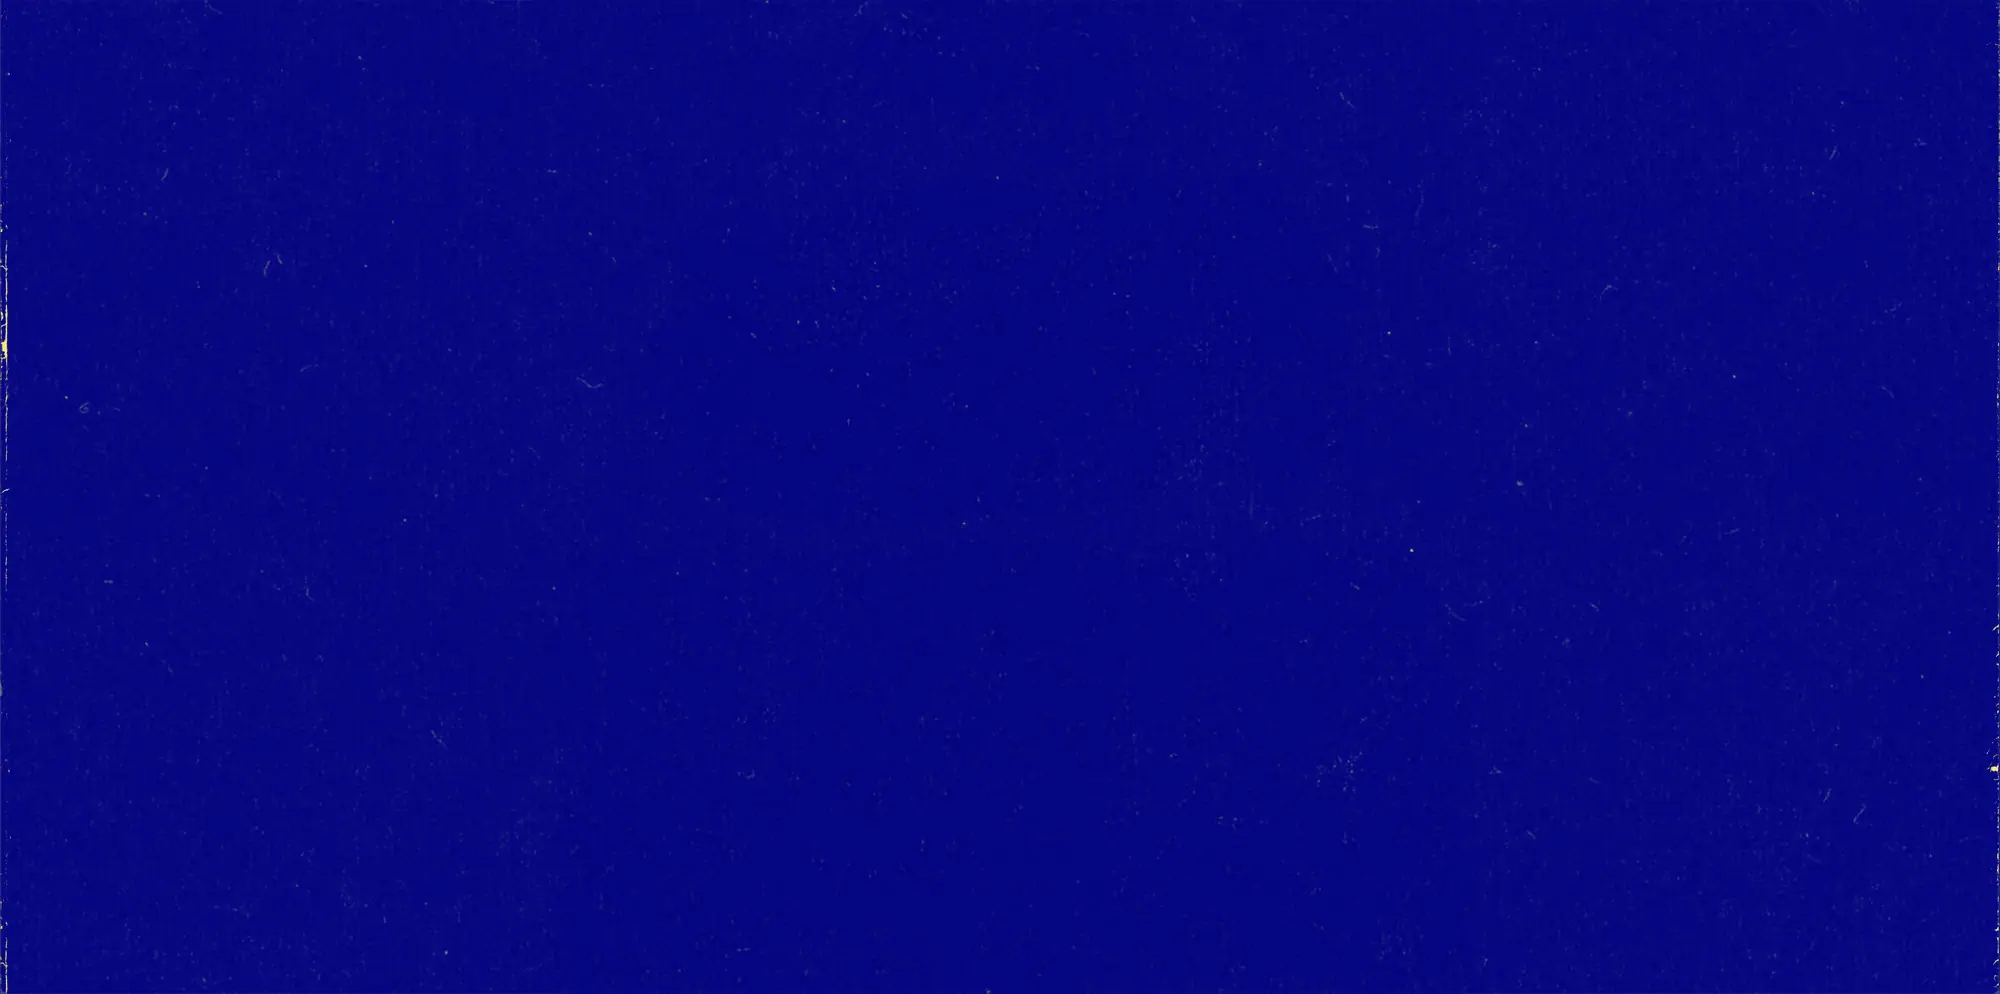
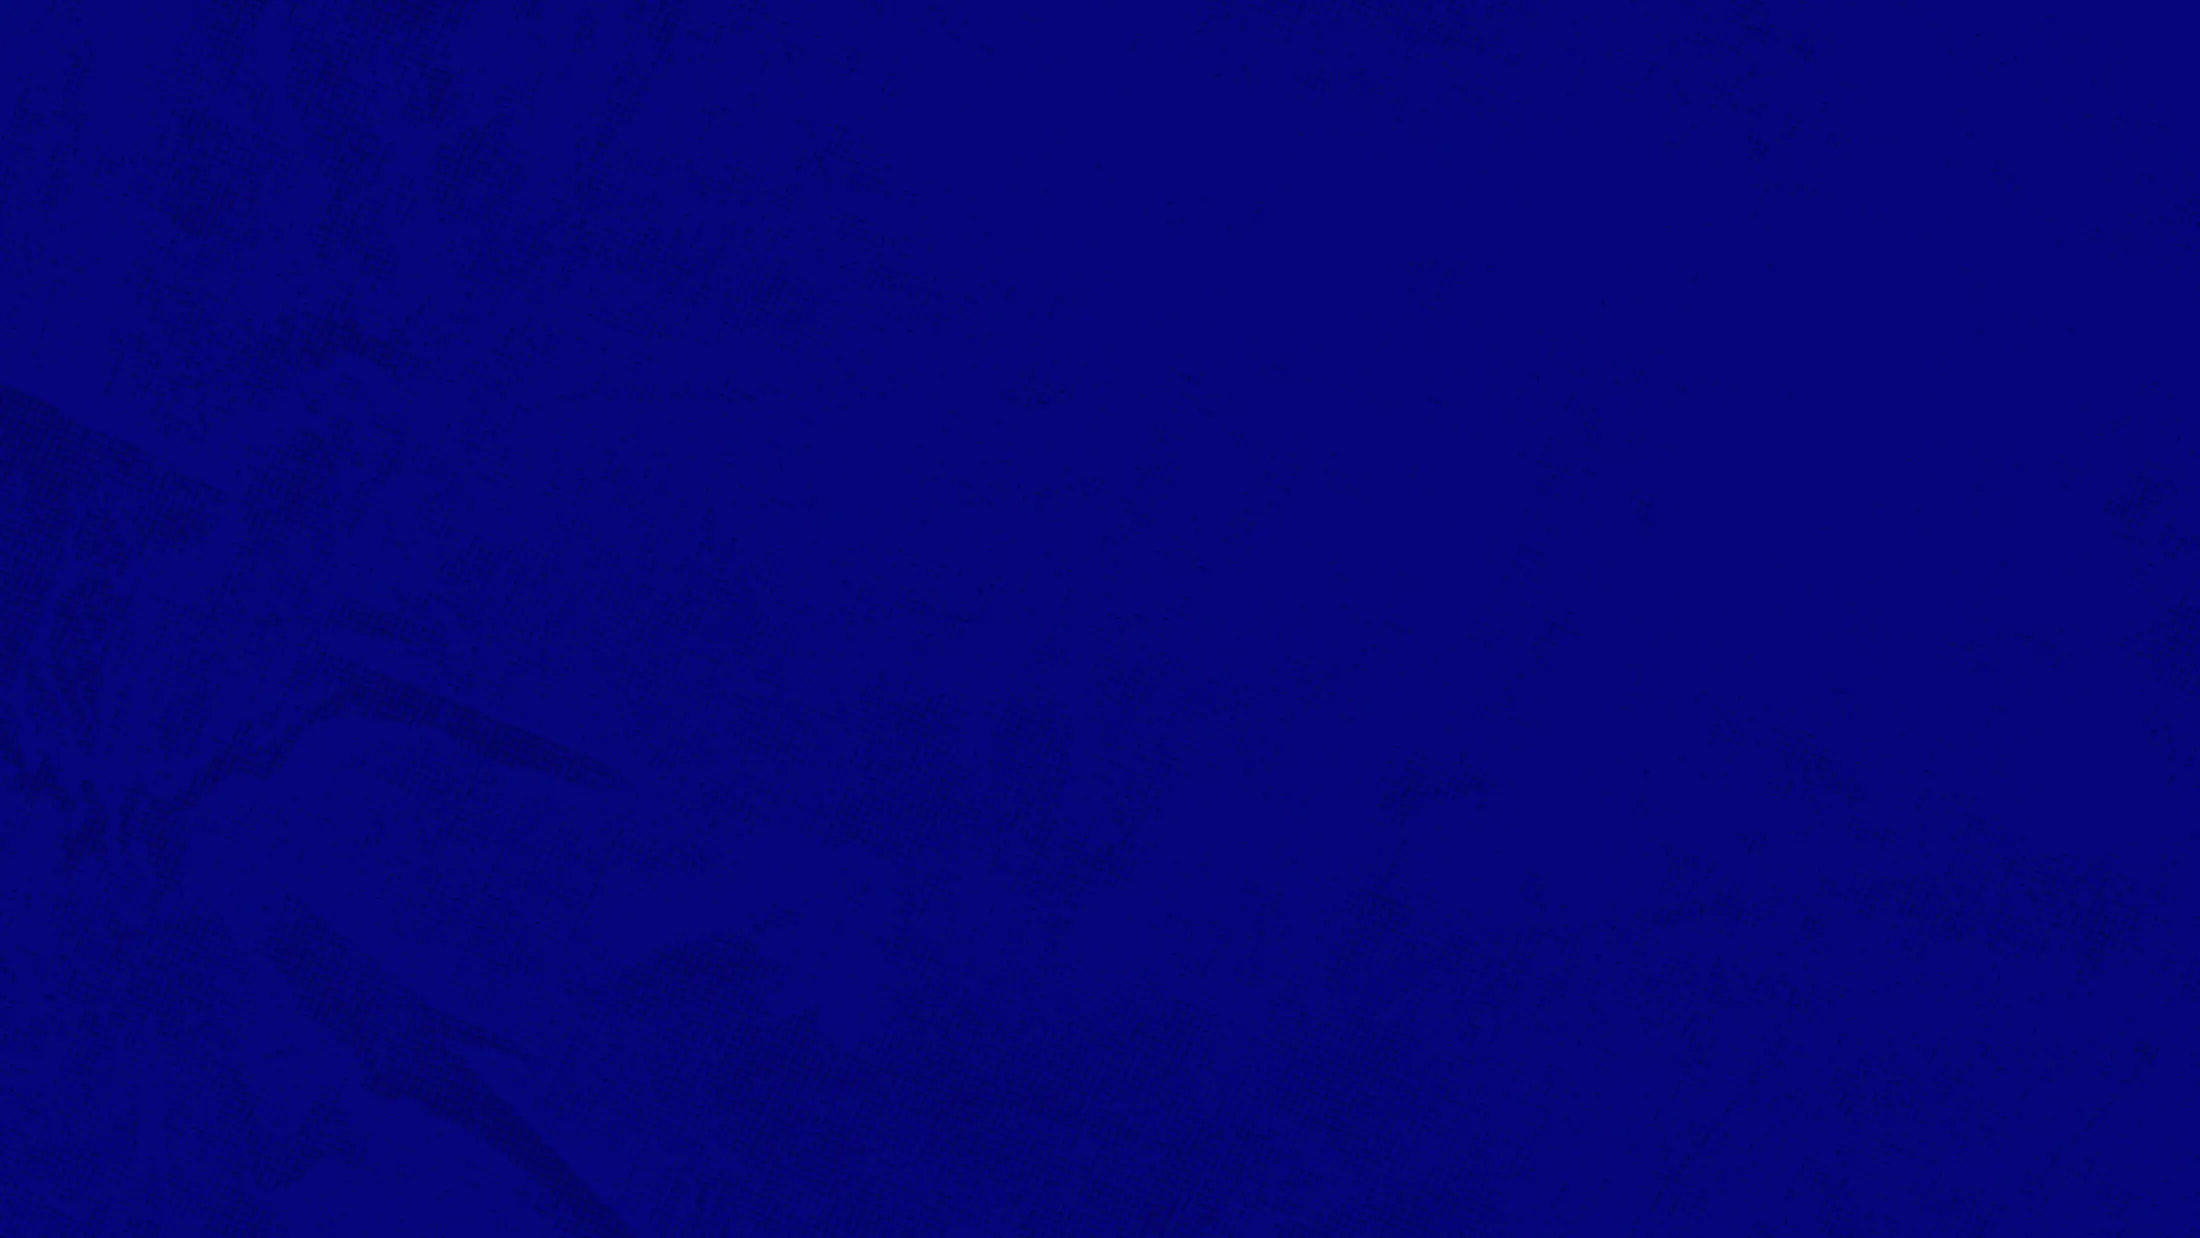
Rebuild from the client's new design file + wire real work thumbnails
New WeTransfer (open .ai + 8000px page exports + 5 brand asset folders):

- Hero: shutter is now the file's full-page garage lines export; door art
  swapped for the new export (baked chrome patched out)
- Fabric texture replaced with the file's own navy texture page
- About: new 6-line copy (drops the last paragraph), tight 2-line
  headline at the export's real leading, chandelier re-cut with its
  orange fills (overlapping the headline like the file), stairs re-cut
  at full size with floor hatching — every element now measures within
  0.3% of the export
- Work: real thumbnails wired from the delivered folders — Jameson,
  Nippon India (GOAT), Senco film still, Grameen Kulfi, Jacob's Creek
  Unvined + South Indian Bank; projects reordered to match the file
  (Johnson and Tata entries replaced)
- Crew: labels per the updated file — Maithili Sr. Executive (top),
  Utsav Art Director (Bryan's old crew spot), Tanvi Sr. Visualizer

diff --git a/artifacts/garage-website/src/lib/fallback-data.ts b/artifacts/garage-website/src/lib/fallback-data.ts
@@ -4,6 +4,7 @@ import { publicAsset } from "./public-asset";
 const ppt = publicAsset("assets/ppt/");
 const crewImg = publicAsset("crew/");
 const clientImg = publicAsset("clients/");
+const v2img = publicAsset("v2/");
 
 export const fallbackContent: GarageContent = {
   site: {
@@ -43,6 +44,46 @@ export const fallbackContent: GarageContent = {
   },
   projects: [
     {
+      id: "jameson",
+      title: "Moments Worth Sharing",
+      client: "Jameson",
+      category: "Digital & Social",
+      summary:
+        "Always-on social storytelling for Jameson Ginger Ale — from #WorldHelloDay and festive content calendars to Halloween drops and carousel series that keep the brand living in culture all year round.",
+      impact:
+        "A steady drumbeat of thumb-stopping social content built an engaged community around the brand's easy-going, social-first personality across Instagram and beyond.",
+      cover: {
+        src: `${v2img}work-jameson.webp`,
+        alt: "Jameson — Sometimes it's about the hellos after you hang up"
+      },
+      gallery: [
+        {
+          src: `${v2img}work-jameson.webp`,
+          alt: "Jameson — Sometimes it's about the hellos after you hang up"
+        }
+      ]
+    },
+    {
+      id: "nippon-india-mf",
+      title: "GOAT Campaign",
+      client: "Nippon India",
+      category: "Digital & Social",
+      summary:
+        "To build a stronger connection with younger audiences, GARAGE partnered with Nippon India Mutual Fund to launch a Gen Z-first social ecosystem — simplifying mutual funds by speaking the audience's language, both verbally and visually. From leveraging Gen Z slang to culturally relevant, thumb-stopping content, finance was made less intimidating and more relatable.",
+      impact:
+        "The GOAT campaign, Diwali Vox Pop series, and New Year \u2018Grape Theory\u2019 film drove curiosity and meaningful engagement across Instagram, Facebook, and YouTube — positioning Nippon India as the GOAT of mutual funds among India's Gen Z investors.",
+      cover: {
+        src: `${v2img}work-nippon.webp`,
+        alt: "Nippon India Mutual Fund — GOAT campaign visual"
+      },
+      gallery: [
+        {
+          src: `${v2img}work-nippon.webp`,
+          alt: "Nippon India Mutual Fund — GOAT campaign visual"
+        }
+      ]
+    },
+    {
       id: "senco-gold",
       title: "Khushiyon Ki Reet",
       client: "Senco Gold & Diamonds",
@@ -52,13 +93,53 @@ export const fallbackContent: GarageContent = {
       impact:
         "The #AapkaShukriya film — a heartfelt tribute to the karigars behind every Senco masterpiece — celebrated artisan craftsmanship and cultural heritage, driving brand love and digital engagement across the campaign.",
       cover: {
-        src: `${ppt}work-senco.webp`,
+        src: `${v2img}work-senco2.webp`,
         alt: "Senco Gold & Diamonds — Khushiyon Ki Reet campaign visual"
       },
       gallery: [
         {
-          src: `${ppt}work-senco.webp`,
+          src: `${v2img}work-senco2.webp`,
           alt: "Senco Gold & Diamonds — Khushiyon Ki Reet campaign visual"
+        }
+      ]
+    },
+    {
+      id: "grameen-kulfi",
+      title: "Jaldi Kya Hai?",
+      client: "Grameen Kulfi",
+      category: "Campaign",
+      summary:
+        "A kulfi crafted with so much care, it deserves to be savoured. This campaign positioned Grameen Kulfi as an antidote to today's fast-paced world — celebrating slow living, mindful indulgence, and the craftsmanship behind every kulfi. Flavours include Desi Malai, Kesar Pista, Alphonso Mango and more; available in stick, slice, and matka formats.",
+      impact:
+        "The wedding film and conference film carried the \u2018Jaldi Kya Hai?\u2019 platform across occasions, building brand recall around the idea of unhurried, traditional indulgence in a market dominated by fast snacking.",
+      cover: {
+        src: `${v2img}work-grameen.webp`,
+        alt: "Grameen Kulfi — Jaldi Kya Hai? campaign visual"
+      },
+      gallery: [
+        {
+          src: `${v2img}work-grameen.webp`,
+          alt: "Grameen Kulfi — Jaldi Kya Hai? campaign visual"
+        }
+      ]
+    },
+    {
+      id: "jacobs-creek",
+      title: "Unvined",
+      client: "Jacob's Creek",
+      category: "Digital & Social",
+      summary:
+        "Launching Jacob's Creek Unvined \u2014 the non-alcoholic wine range \u2014 with a social platform built around moments worth celebrating without compromise. From festive occasions to cricket contests, the content kept the brand effortlessly in the conversation.",
+      impact:
+        "The Unvined launch content and always-on social calendar drove awareness and trial for the new range, framing it as the easy pick for every celebration.",
+      cover: {
+        src: `${v2img}work-jacobs-creek.webp`,
+        alt: "Jacob's Creek Unvined \u2014 bottle clock campaign visual"
+      },
+      gallery: [
+        {
+          src: `${v2img}work-jacobs-creek.webp`,
+          alt: "Jacob's Creek Unvined \u2014 bottle clock campaign visual"
         }
       ]
     },
@@ -79,86 +160,6 @@ export const fallbackContent: GarageContent = {
         {
           src: `${ppt}work-sib.webp`,
           alt: "South Indian Bank — Trust meets Tech since 1929 campaign"
-        }
-      ]
-    },
-    {
-      id: "grameen-kulfi",
-      title: "Jaldi Kya Hai?",
-      client: "Grameen Kulfi",
-      category: "Campaign",
-      summary:
-        "A kulfi crafted with so much care, it deserves to be savoured. This campaign positioned Grameen Kulfi as an antidote to today's fast-paced world — celebrating slow living, mindful indulgence, and the craftsmanship behind every kulfi. Flavours include Desi Malai, Kesar Pista, Alphonso Mango and more; available in stick, slice, and matka formats.",
-      impact:
-        "The wedding film and conference film carried the \u2018Jaldi Kya Hai?\u2019 platform across occasions, building brand recall around the idea of unhurried, traditional indulgence in a market dominated by fast snacking.",
-      cover: {
-        src: `${ppt}work-grameen-kulfi-new.webp`,
-        alt: "Grameen Kulfi — Jaldi Kya Hai? campaign visual"
-      },
-      gallery: [
-        {
-          src: `${ppt}work-grameen-kulfi-new.webp`,
-          alt: "Grameen Kulfi — Jaldi Kya Hai? campaign visual"
-        }
-      ]
-    },
-    {
-      id: "johnson",
-      title: "Dada Jackson & Ram–Shyam",
-      client: "H&R Johnson",
-      category: "Brand Film",
-      summary:
-        "An integrated campaign highlighting the real-world benefits of Johnson's innovative tile solutions through two lighthearted, performance-driven films. Dada Jackson demonstrates unshakable confidence on MaxGrip anti-skid tiles; Ram and Shyam deliver comic contrast showcasing Cool-Roof tiles.",
-      impact:
-        "By blending functional innovation with entertainment, the films achieved high recall and everyday relevance — making tile performance tangible and memorable for consumers across retail and digital.",
-      cover: {
-        src: `${ppt}work-johnson.webp`,
-        alt: "H&R Johnson — Dada Jackson MaxGrip campaign visual"
-      },
-      gallery: [
-        {
-          src: `${ppt}work-johnson.webp`,
-          alt: "H&R Johnson — Dada Jackson MaxGrip campaign visual"
-        }
-      ]
-    },
-    {
-      id: "nippon-india-mf",
-      title: "GOAT Campaign",
-      client: "Nippon India Mutual Fund",
-      category: "Digital & Social",
-      summary:
-        "To build a stronger connection with younger audiences, GARAGE partnered with Nippon India Mutual Fund to launch a Gen Z-first social ecosystem — simplifying mutual funds by speaking the audience's language, both verbally and visually. From leveraging Gen Z slang to culturally relevant, thumb-stopping content, finance was made less intimidating and more relatable.",
-      impact:
-        "The GOAT campaign, Diwali Vox Pop series, and New Year \u2018Grape Theory\u2019 film drove curiosity and meaningful engagement across Instagram, Facebook, and YouTube — positioning Nippon India as the GOAT of mutual funds among India's Gen Z investors.",
-      cover: {
-        src: `${ppt}work-nippon.webp`,
-        alt: "Nippon India Mutual Fund — GOAT campaign visual"
-      },
-      gallery: [
-        {
-          src: `${ppt}work-nippon.webp`,
-          alt: "Nippon India Mutual Fund — GOAT campaign visual"
-        }
-      ]
-    },
-    {
-      id: "tata-sons",
-      title: "The Quiet Little Kid",
-      client: "Tata Sons",
-      category: "Digital & Creative Strategy",
-      summary:
-        "The Tata Building India School Essay Competition is one of the Tata Group's key initiatives to ignite the imagination of the young and instil a spirit of nation building. Over 15+ years it has touched 33+ million school students, with participation from 500+ cities in 13 languages.",
-      impact:
-        "The \u2018Quiet Little Kid\u2019 launch film celebrated children who know the answer but lack the confidence to say it — earning strong digital reach across English and Hindi versions, and amplified through a full teaser-to-sustenance content arc on social media.",
-      cover: {
-        src: `${ppt}work-tata.webp`,
-        alt: "Tata Sons — The Quiet Little Kid essay competition film"
-      },
-      gallery: [
-        {
-          src: `${ppt}work-tata.webp`,
-          alt: "Tata Sons — The Quiet Little Kid essay competition film"
         }
       ]
     }

diff --git a/artifacts/garage-website/src/v3/GarageV3.tsx b/artifacts/garage-website/src/v3/GarageV3.tsx
@@ -238,8 +238,8 @@ function AboutV3() {
   return (
     <section id="story" className="v3-about-wrap" aria-label="About Garage">
       <div className="v3-about-navy v3-fabric">
+        <img className="v3-about-horns" src={v2("horns-fill")} alt="" aria-hidden="true" />
         <div className="v3-about-navy-inner">
-          <img className="v3-about-horns" src={v2("horns-tight")} alt="" aria-hidden="true" />
           <h2 className="v3-about-headline">
             Historically, the best ideas have
             <br />
@@ -257,22 +257,20 @@ function AboutV3() {
             room.
           </h3>
           <p className="v3-og-copy">
-            HP in 1939. Apple in 1976. Amazon in 1994… the list goes on.
+            HP in 1939. Apple in 1976. Amazon in 1994…
+            <br />
+            the list goes on.
             <br />
             We&rsquo;re continuing this rich tradition.
             <br />
-            Fresh ideas, fresher faces, and the freshest resources
+            Fresh ideas, fresher faces, and the freshest
             <br />
-            all come together to create something real. And something
+            resources all come together to create
             <br />
-            that works.
-            <br />
-            Because for us as an integrated ad&#8209;agency, there&rsquo;s no
-            <br />
-            better world than an ideas world.
+            something real. And something that works.
           </p>
         </div>
-        <img className="v3-about-stairs" src={v2("stairs-tight")} alt="" aria-hidden="true" />
+        <img className="v3-about-stairs" src={v2("stairs-new")} alt="" aria-hidden="true" />
       </div>
     </section>
   );
@@ -380,14 +378,14 @@ const OG_ZONES = [
 const CREW_ZONES: { name: string; role: string; x: number; y: number; w: number; h: number; lx: number; ly: number }[] = [
   { name: "Aryan", role: "Junior Visualizer", x: 10, y: 22, w: 11, h: 38, lx: 15.4, ly: 41 },
   { name: "Rujvi", role: "Sr. Visualizer", x: 23, y: 33, w: 10, h: 36, lx: 24.6, ly: 46.4 },
-  { name: "Utsav", role: "Art Director", x: 31, y: 13, w: 10, h: 32, lx: 31.3, ly: 25 },
+  { name: "Maithili", role: "Sr. Executive", x: 31, y: 13, w: 10, h: 32, lx: 31.3, ly: 25 },
   { name: "Vedant", role: "Copywriter", x: 41, y: 31, w: 11, h: 38, lx: 40.4, ly: 46 },
-  { name: "Tanvi", role: "Visualizer", x: 48, y: 13, w: 10, h: 34, lx: 46.4, ly: 23.5 },
+  { name: "Tanvi", role: "Sr. Visualizer", x: 48, y: 13, w: 10, h: 34, lx: 46.4, ly: 23.5 },
   { name: "Aniket", role: "Sr. Copywriter", x: 55, y: 33, w: 11, h: 36, lx: 56.6, ly: 53 },
   { name: "Kyle", role: "Account Manager", x: 64, y: 16, w: 12, h: 34, lx: 71.6, ly: 21.6 },
   { name: "Saniya", role: "Visualizer", x: 74, y: 31, w: 11, h: 36, lx: 80.6, ly: 43.8 },
   { name: "Mobaiyana", role: "Copywriter", x: 8, y: 60, w: 13, h: 36, lx: 10, ly: 76.2 },
-  { name: "Bryan", role: "Art Head", x: 26, y: 55, w: 11, h: 41, lx: 27.9, ly: 72.2 },
+  { name: "Utsav", role: "Art Director", x: 26, y: 55, w: 11, h: 41, lx: 27.9, ly: 72.2 },
   { name: "Samir", role: "Sr. Account Manager", x: 40, y: 53, w: 12, h: 43, lx: 51.8, ly: 68.6 },
   { name: "Pranali", role: "Sr. Account Manager", x: 55, y: 56, w: 13, h: 40, lx: 66.4, ly: 73.7 },
   { name: "Adwait", role: "Art Director", x: 71, y: 55, w: 16, h: 41, lx: 83.6, ly: 76.2 },

diff --git a/artifacts/garage-website/src/v3/v3.css b/artifacts/garage-website/src/v3/v3.css
@@ -297,7 +297,7 @@
   max-width: 1500px;
   margin: 0 auto;
 }
-.v3-about-horns { width: min(100%, 340px); justify-self: center; }
+.v3-about-horns { display: block; width: min(100%, 340px); margin: 0 auto 1rem; }
 .v3-about-headline {
   margin: 0;
   font-family: var(--mader);
@@ -961,23 +961,30 @@
 
   /* ── ABOUT (artboard p10) ── */
   .v3-about-navy {
+    position: relative;
     height: 26.44vw;                /* navy band: 47% of page height */
-    padding: 0 10vw 0 16.2vw;
+    padding: 0 10vw 0 29.6vw;
     display: flex;
     align-items: center;
     clip-path: polygon(0 0, 100% 0, 100% 82.7%, 88% 84.6%, 75% 86.4%, 62% 88.6%, 50% 90.1%, 38% 92.3%, 25% 94.2%, 12% 96.8%, 0 100%);
   }
   .v3-about-navy-inner {
-    display: grid;
-    grid-template-columns: 13.3vw 1fr;
-    gap: 0.2vw;
-    align-items: center;
+    display: block;
     width: 100%;
     max-width: none;
     margin: 0;
+    transform: translateY(-1.7vw);
   }
-  .v3-about-horns { width: 13.3vw; max-width: none; margin-top: -2.3vw; }
-  .v3-about-headline { font-size: 6.02vw; line-height: 1.83; letter-spacing: 0; }
+  /* chandelier overlaps the headline start, like the file */
+  .v3-about-horns {
+    position: absolute;
+    left: 16.2vw;
+    top: 2.87vw;
+    width: 15vw;
+    max-width: none;
+    margin: 0;
+  }
+  .v3-about-headline { font-size: 6.02vw; line-height: 1.26; letter-spacing: 0; }
   .v3-about-cream {
     position: relative;
     height: 29.81vw;                /* rest of the artboard */
@@ -995,13 +1002,13 @@
     align-items: center;
   }
   .v3-og-title { font-size: 5.85vw; line-height: 0.85; margin: 0; }
-  .v3-og-copy { font-size: 1.77vw; line-height: 1.18; }
+  .v3-og-copy { font-size: 2.19vw; line-height: 1.1; }
   .v3-about-stairs {
     position: absolute;
-    right: 9.65vw;
-    top: 43.2%;
+    right: 9.64vw;
+    top: 42.3%;
     transform: translateY(-50%);
-    width: 9.15vw;
+    width: 10.96vw;
     max-width: none;
     margin: 0;
     display: block;
